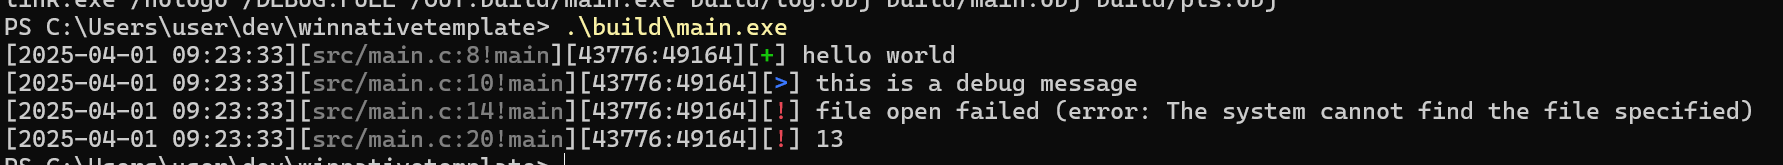
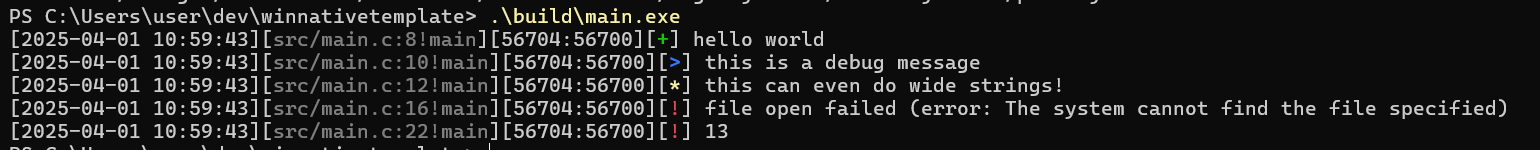
add wide string support to logging lib

Changed region(s): [[0.0, 0.0, 0.9974, 0.9333], [0.0, 0.96, 0.3117, 1.0]]

diff --git a/src/log.c b/src/log.c
@@ -30,6 +30,13 @@
 #define __logc_msg_def const char *filename, int linenum, const char *func, 
 #endif // LOG_MIN
 
+static void __crash() {
+#pragma warning (push)
+#pragma warning (disable:4312)
+    *((unsigned int*)0xdeadbeef)= 0x42;
+#pragma warning (pop)
+}
+
 static void _log_msg(const char *prefix, __logc_msg_def char *err, const char *fmt, va_list args) {
     char ts[TS_SIZE] = {0};
     char msg[MSG_SIZE] = {0};
@@ -41,7 +48,11 @@ static void _log_msg(const char *prefix, __logc_msg_def char *err, const char *f
     strftime(ts, TS_SIZE, "%Y-%m-%d %H:%M:%S", lt);
 
     // format the log fstr into the msg buf
-    vsnprintf(msg, MSG_SIZE-1, fmt, args);
+    if (args) {
+        vsnprintf(msg, MSG_SIZE-1, fmt, args);
+    } else {
+        strncpy(msg, fmt, MSG_SIZE-1);
+    }
 
     // build the actual log buf according to the log preproc configuration
     int offset = 0;
@@ -63,6 +74,23 @@ static void _log_msg(const char *prefix, __logc_msg_def char *err, const char *f
 
     fprintf(stderr, "%s\n", buf);
     fflush(stderr);
+}
+
+static void _log_wide_msg(const char *prefix, __logc_msg_def char *err, const wchar_t *fmt, va_list args) {
+    wchar_t wmsg[MSG_SIZE] = {0};
+    char msg[MSG_SIZE] = {0};
+
+    // render out the wide format string
+    _vsnwprintf(wmsg, MSG_SIZE-1, fmt, args);
+
+    // convert the wide string to utf-8
+    if (!WideCharToMultiByte(CP_UTF8, WC_ERR_INVALID_CHARS, wmsg, -1, msg, MSG_SIZE, NULL, NULL)) {
+        LOG_ERROR_ERRNO("failed to render out wide log string, crashing program");
+        __crash();
+    }
+
+    // hand off to normal logging logic
+    _log_msg(prefix, __logc_func_args err, msg, NULL);
 }
 
 static char *_get_win_errstr(DWORD errnum) {
@@ -133,5 +161,49 @@ void __LOG_Error_Errno(__logc_func_def const char *fmt, ...) {
     va_start(args, fmt);
     char *err = _get_normal_error();
     _log_msg(RED "!" RESET, __logc_func_args err, fmt, args);
+    va_end(args);
+}
+
+void __LOG_Wide_Debug(__logc_func_def const wchar_t *fmt, ...) {
+    va_list args;
+    va_start(args, fmt);
+    _log_wide_msg(BLUE ">" RESET, __logc_func_args NULL, fmt, args);
+    va_end(args);
+}
+
+void __LOG_Wide_Debug_Errno(__logc_func_def const wchar_t *fmt, ...) {
+    va_list args;
+    va_start(args, fmt);
+    char *err = _get_normal_error();
+    _log_wide_msg(BLUE ">" RESET, __logc_func_args err, fmt, args);
+    va_end(args);
+}
+
+void __LOG_Wide_Info(__logc_func_def const wchar_t *fmt, ...) {
+    va_list args;
+    va_start(args, fmt);
+    _log_wide_msg(GREEN "+" RESET, __logc_func_args NULL, fmt, args);
+    va_end(args);
+}
+
+void __LOG_Wide_Warn(__logc_func_def const wchar_t *fmt, ...) {
+    va_list args;
+    va_start(args, fmt);
+    _log_wide_msg(YELLOW "*" RESET, __logc_func_args NULL, fmt, args);
+    va_end(args);
+}
+
+void __LOG_Wide_Error(__logc_func_def const wchar_t *fmt, ...) {
+    va_list args;
+    va_start(args, fmt);
+    _log_wide_msg(RED "!" RESET, __logc_func_args NULL, fmt, args);
+    va_end(args);
+}
+
+void __LOG_Wide_Error_Errno(__logc_func_def const wchar_t *fmt, ...) {
+    va_list args;
+    va_start(args, fmt);
+    char *err = _get_normal_error();
+    _log_wide_msg(RED "!" RESET, __logc_func_args err, fmt, args);
     va_end(args);
 }

diff --git a/inc/log.h b/inc/log.h
@@ -10,28 +10,46 @@
 
 #ifdef LOG_MIN
 #define __log_func_args const char *fmt
+#define __log_func_wide_args const wchar_t *fmt
 #define __log_macro_args
 #else
 #define __log_func_args const char *filename, int linenum, const char *func, const char *fmt
+#define __log_func_wide_args const char *filename, int linenum, const char *func, const wchar_t *fmt
 #define __log_macro_args __FILE__, __LINE__, __func__,
 #endif // LOG_MIN
 
-void __LOG_Debug();
+void __LOG_Debug(__log_func_args, ...);
 void __LOG_Debug_Errno(__log_func_args, ...);
 void __LOG_Info(__log_func_args, ...);
 void __LOG_Warn(__log_func_args, ...);
 void __LOG_Error(__log_func_args, ...);
 void __LOG_Error_Errno(__log_func_args, ...);
 
+void __LOG_Wide_Debug(__log_func_wide_args, ...);
+void __LOG_Wide_Debug_Errno(__log_func_wide_args, ...);
+void __LOG_Wide_Info(__log_func_wide_args, ...);
+void __LOG_Wide_Warn(__log_func_wide_args, ...);
+void __LOG_Wide_Error(__log_func_wide_args, ...);
+void __LOG_Wide_Error_Errno(__log_func_wide_args, ...);
+
 #ifdef DEBUG
 #define LOG_DEBUG(fmt, ...) __LOG_Debug(__log_macro_args fmt, ##__VA_ARGS__)
 #define LOG_DEBUG_ERRNO(fmt, ...) __LOG_Debug_Errno(__log_macro_args fmt, ##__VA_ARGS__)
+#define LOGW_DEBUG(fmt, ...) __LOG_Wide_Debug(__log_macro_args fmt, ##__VA_ARGS__)
+#define LOGW_DEBUG_ERRNO(fmt, ...) __LOG_Wide_Debug_Errno(__log_macro_args fmt, ##__VA_ARGS__)
 #else
 #define LOG_DEBUG(fmt, ...) do {} while (0);
 #define LOG_DEBUG_ERRNO(fmt, ...) do {} while (0);
+#define LOGW_DEBUG(fmt, ...) do {} while (0);
+#define LOGW_DEBUG_ERRNO(fmt, ...) do {} while (0);
 #endif
 
 #define LOG_INFO(fmt, ...) __LOG_Info(__log_macro_args fmt, ##__VA_ARGS__)
 #define LOG_WARN(fmt, ...) __LOG_Warn(__log_macro_args fmt, ##__VA_ARGS__)
 #define LOG_ERROR(fmt, ...) __LOG_Error(__log_macro_args fmt, ##__VA_ARGS__)
 #define LOG_ERROR_ERRNO(fmt, ...) __LOG_Error_Errno(__log_macro_args fmt, ##__VA_ARGS__)
+
+#define LOGW_INFO(fmt, ...) __LOG_Wide_Info(__log_macro_args fmt, ##__VA_ARGS__)
+#define LOGW_WARN(fmt, ...) __LOG_Wide_Warn(__log_macro_args fmt, ##__VA_ARGS__)
+#define LOGW_ERROR(fmt, ...) __LOG_Wide_Error(__log_macro_args fmt, ##__VA_ARGS__)
+#define LOGW_ERROR_ERRNO(fmt, ...) __LOG_Wide_Error_Errno(__log_macro_args fmt, ##__VA_ARGS__)

diff --git a/src/main.c b/src/main.c
@@ -9,6 +9,8 @@ int main(int argc, char* argv[]) {
 
     LOG_DEBUG("this is a debug message");
 
+    LOGW_WARN(L"this can even do %s", L"wide strings!");
+
     HANDLE hFile = CreateFileA("C:\\thesearenotthedroidsyourelookingfor.txt", GENERIC_READ, 0, NULL, OPEN_EXISTING, 0, NULL);
     if (hFile == INVALID_HANDLE_VALUE) {
         LOG_ERROR_ERRNO("file open failed");
